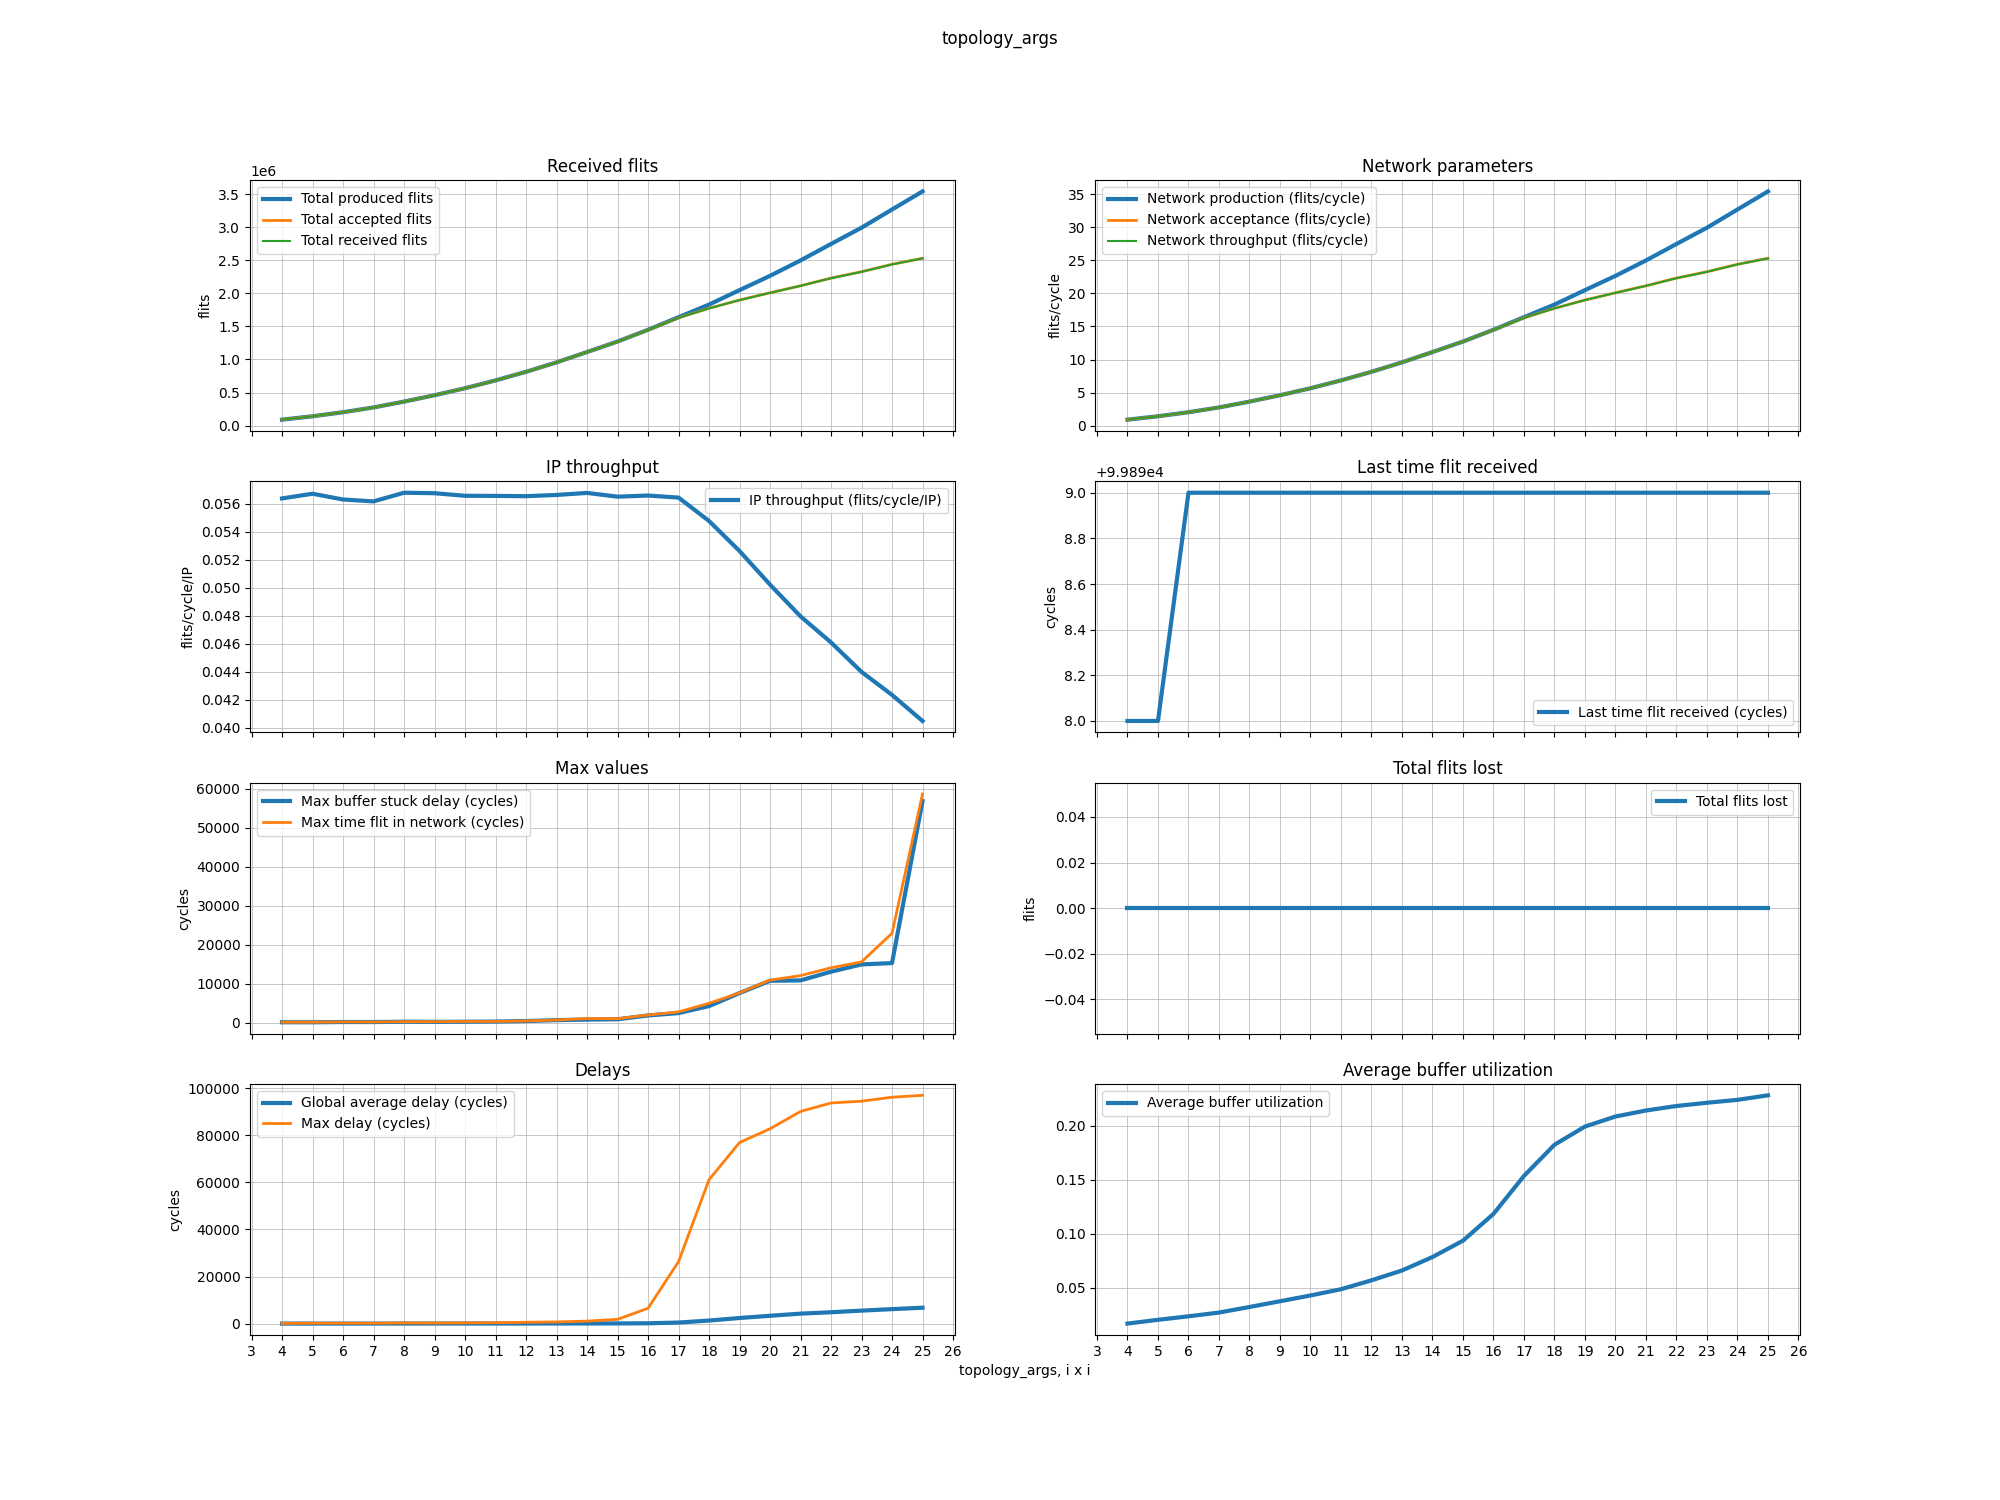
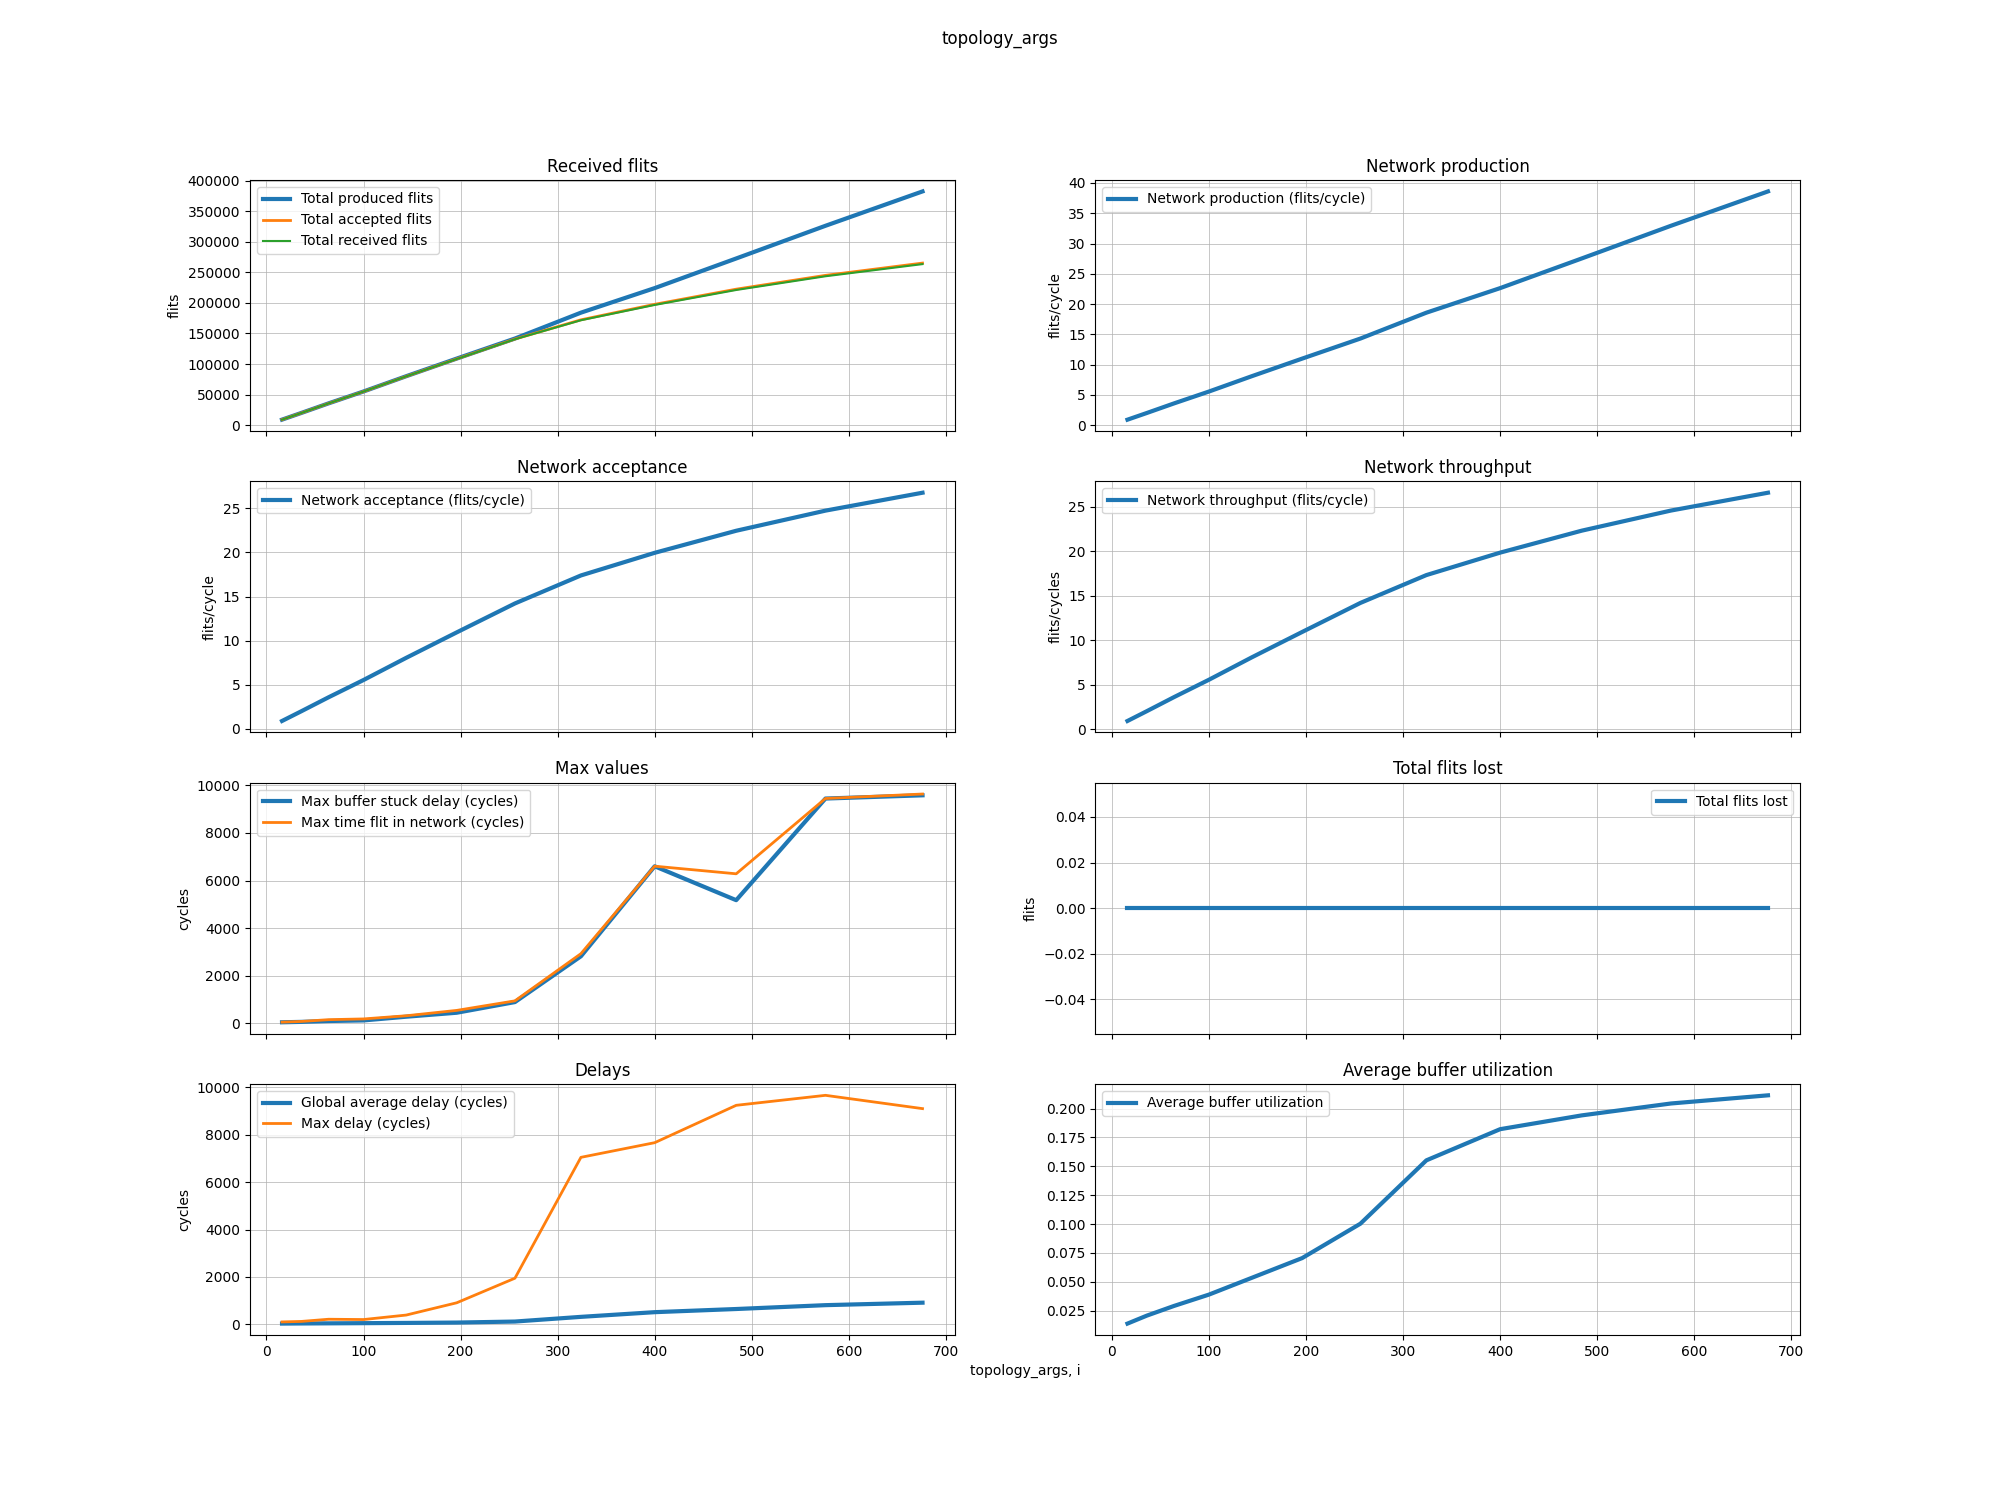
Rename the result files and titles, create a throughput output function

diff --git a/run_configure.py b/run_configure.py
@@ -9,12 +9,12 @@ import matplotlib.ticker as mticker
 config = None
 
 class Config:
-	arg = "routing_algorithm"
+	arg = "topology_args"
 
 	template_path = "config_v1.yml"
 	result_path = f"results/results-{arg}.csv"
 	
-	skip = True
+	skip = False
 	append = False
 	comment = None
 
@@ -55,7 +55,7 @@ class Config:
 		if (Config.arg == "topology_args"):
 			self.start = 4
 			self.end = 25
-			self.step = 1
+			self.step = 2
 		elif (Config.arg == "stats_warm_up_time"):
 			self.start = 100
 			self.end = 2000
@@ -106,18 +106,17 @@ def subplot_results(ax, *features):
 	ax.grid(linestyle = '-', linewidth = 0.5)
 	ax.legend()
 
-
-def plot_results(*keys):
+def plot_all_results(*keys):
 	# create static variables for the subplot_results() function
 	subplot_results.df = pd.read_csv(config.result_path, skiprows=1)
-	subplot_results.df = subplot_results.df[subplot_results.df["routing_algorithm"] != "TABLE_BASED"]
 	subplot_results.x = subplot_results.df[config.arg].to_list()
+	# subplot_results.x = list(map(lambda x: int(x) ** 2, subplot_results.x)) if (config.arg == "topology_args") else subplot_results.x
 
 	fig, axs = plt.subplots(4, 2, sharex=True, sharey=False, figsize=(20, 15))
 	subplot_results(axs[0, 0], *keys[0:3])
-	subplot_results(axs[0, 1], *keys[3:6])
-	subplot_results(axs[1, 0], keys[6])
-	subplot_results(axs[1, 1], keys[7])
+	subplot_results(axs[0, 1], keys[3])
+	subplot_results(axs[1, 0], keys[4])
+	subplot_results(axs[1, 1], keys[5])
 	subplot_results(axs[2, 0], *keys[8:10])
 	subplot_results(axs[2, 1], keys[11])
 	subplot_results(axs[3, 0], *keys[12:14])
@@ -125,12 +124,12 @@ def plot_results(*keys):
 
 	axs[0, 0].set_title("Received flits")
 	axs[0, 0].set(ylabel="flits")
-	axs[0, 1].set_title("Network parameters")
+	axs[0, 1].set_title("Network production")
 	axs[0, 1].set(ylabel="flits/cycle")
-	axs[1, 0].set_title("IP throughput")
-	axs[1, 0].set(ylabel="flits/cycle/IP")
-	axs[1, 1].set_title("Last time flit received")
-	axs[1, 1].set(ylabel="cycles")
+	axs[1, 0].set_title("Network acceptance")
+	axs[1, 0].set(ylabel="flits/cycle")
+	axs[1, 1].set_title("Network throughput")
+	axs[1, 1].set(ylabel="flits/cycles")
 	axs[2, 0].set_title("Max values")
 	axs[2, 0].set(ylabel="cycles")
 	axs[2, 1].set_title("Total flits lost")
@@ -149,6 +148,16 @@ def plot_results(*keys):
 	plt.savefig(f"results/{config.arg}.png")
 	plt.show()
 
+def plot_results():
+	label = "Network throughput (flits/cycle)"
+	fig, ax = plt.subplots()
+	ax.plot(subplot_results.x, subplot_results.df[label], label=label)
+	ax.grid(linestyle = '-', linewidth = 0.5)
+	ax.set_title(label)
+	ax.set(ylabel="flits/cycle", xlabel="Amount of nodes")
+	plt.savefig(f"results/{config.arg}-throughput.png")
+	plt.show()
+
 def run():
 	global config
 	linenum = find_arg()
@@ -157,7 +166,7 @@ def run():
 		edit_line(f"config_v1-{config.arg}-{i}.yml", linenum, f"{config.arg}: {config:{i}}\n")
 		result = os.popen(f"./newxim.exe -config config_v1-{config.arg}-{i}.yml", "r").read()
 		result = re.findall(r"^%.*?:\s*(.*)$", result, re.MULTILINE)
-		result.insert(0, f"{config:{i}}")
+		result.insert(0, f"{i*i}")
 		config.results.loc[len(config.results)] = result
 		os.system(f"rm config_v1-{config.arg}-{i}.yml")
 
@@ -182,6 +191,7 @@ def main():
 	if not config.skip or config.append:
 		run()
 
-	plot_results(*list(config.results.keys()[1:]))
+	plot_all_results(*list(config.results.keys()[1:]))
+	plot_results()
 
 main()
